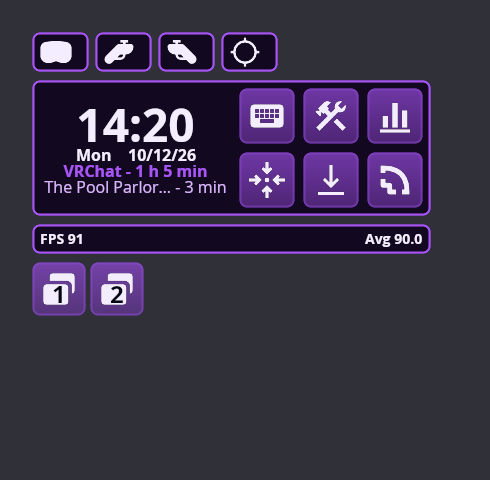
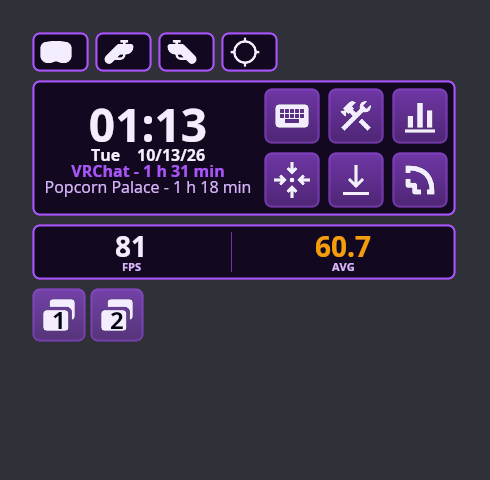
WayVR stats README: screenshots and GIF of the new layout
Rendered with WayVR's uidev previewer from 75 s of frames and hardware
readings recorded in a real VRChat session; the GIF replays 24 s of it
(a stutter and its recovery) through wayvr-stats' own graph code.

Claude-Session: https://claude.ai/code/session_018zuAovaweF9YMYG4StXiDy

Changed region(s): [[0.0612, 0.1562, 0.949, 0.7188]]

diff --git a/contrib/wayvr-fpsvr/README.md b/contrib/wayvr-fpsvr/README.md
@@ -7,12 +7,12 @@ A frame timing panel for [WayVR](https://github.com/wlx-team/wayvr)'s wrist watc
   <img src="watch-hidden.png" alt="The same watch with the stats hidden" width="380">
 </p>
 <p align="center">
-  <img src="fpsvr-graphs.gif" alt="Frame time graphs going from good to bad and back while VRChat loads a world" width="380">
+  <img src="fpsvr-graphs.gif" alt="Frame time graphs going from good to bad and back during a VRChat stutter" width="380">
   <img src="watch-minimal.png" alt="The watch in Minimal mode: FPS and Avg FPS only" width="380">
 </p>
 <p align="center"><img src="settings-tab.png" alt="The FPS stats tab in WayVR's Settings" width="600"></p>
 
-*The watch images are from a real VRChat session on a Quest Pro with this fork, rendered with WayVR's `uidev` previewer (the dark background stands in for the game behind the watch; battery levels are left empty by the previewer). Top: the stats panel, and the same watch with the stats hidden. The GIF replays 24 s of recorded VRChat frames, world loading included, through the panel's own graph and colour code: FPS and frame times turn orange and red while the frames are late, and back to white once it recovers (the temperature, load and memory lines in it are from the moment of the screenshot). Next to it: Minimal mode. Bottom: the FPS stats tab of the patched WayVR's Settings.*
+*The watch images are from a real VRChat session on a Quest Pro with this fork, rendered with WayVR's `uidev` previewer (the dark background stands in for the game behind the watch; battery levels are left empty by the previewer). Top: the stats panel, and the same watch with the stats hidden. The GIF replays 24 s of recorded VRChat frames, a stutter included, through the panel's own graph and colour code: FPS and frame times turn orange and red while the frames are late, and back to white once it recovers (temperature, load and memory were recorded with them, once a second). Next to it: Minimal mode. Bottom: the FPS stats tab of the patched WayVR's Settings.*
 
 ## How it works
 
